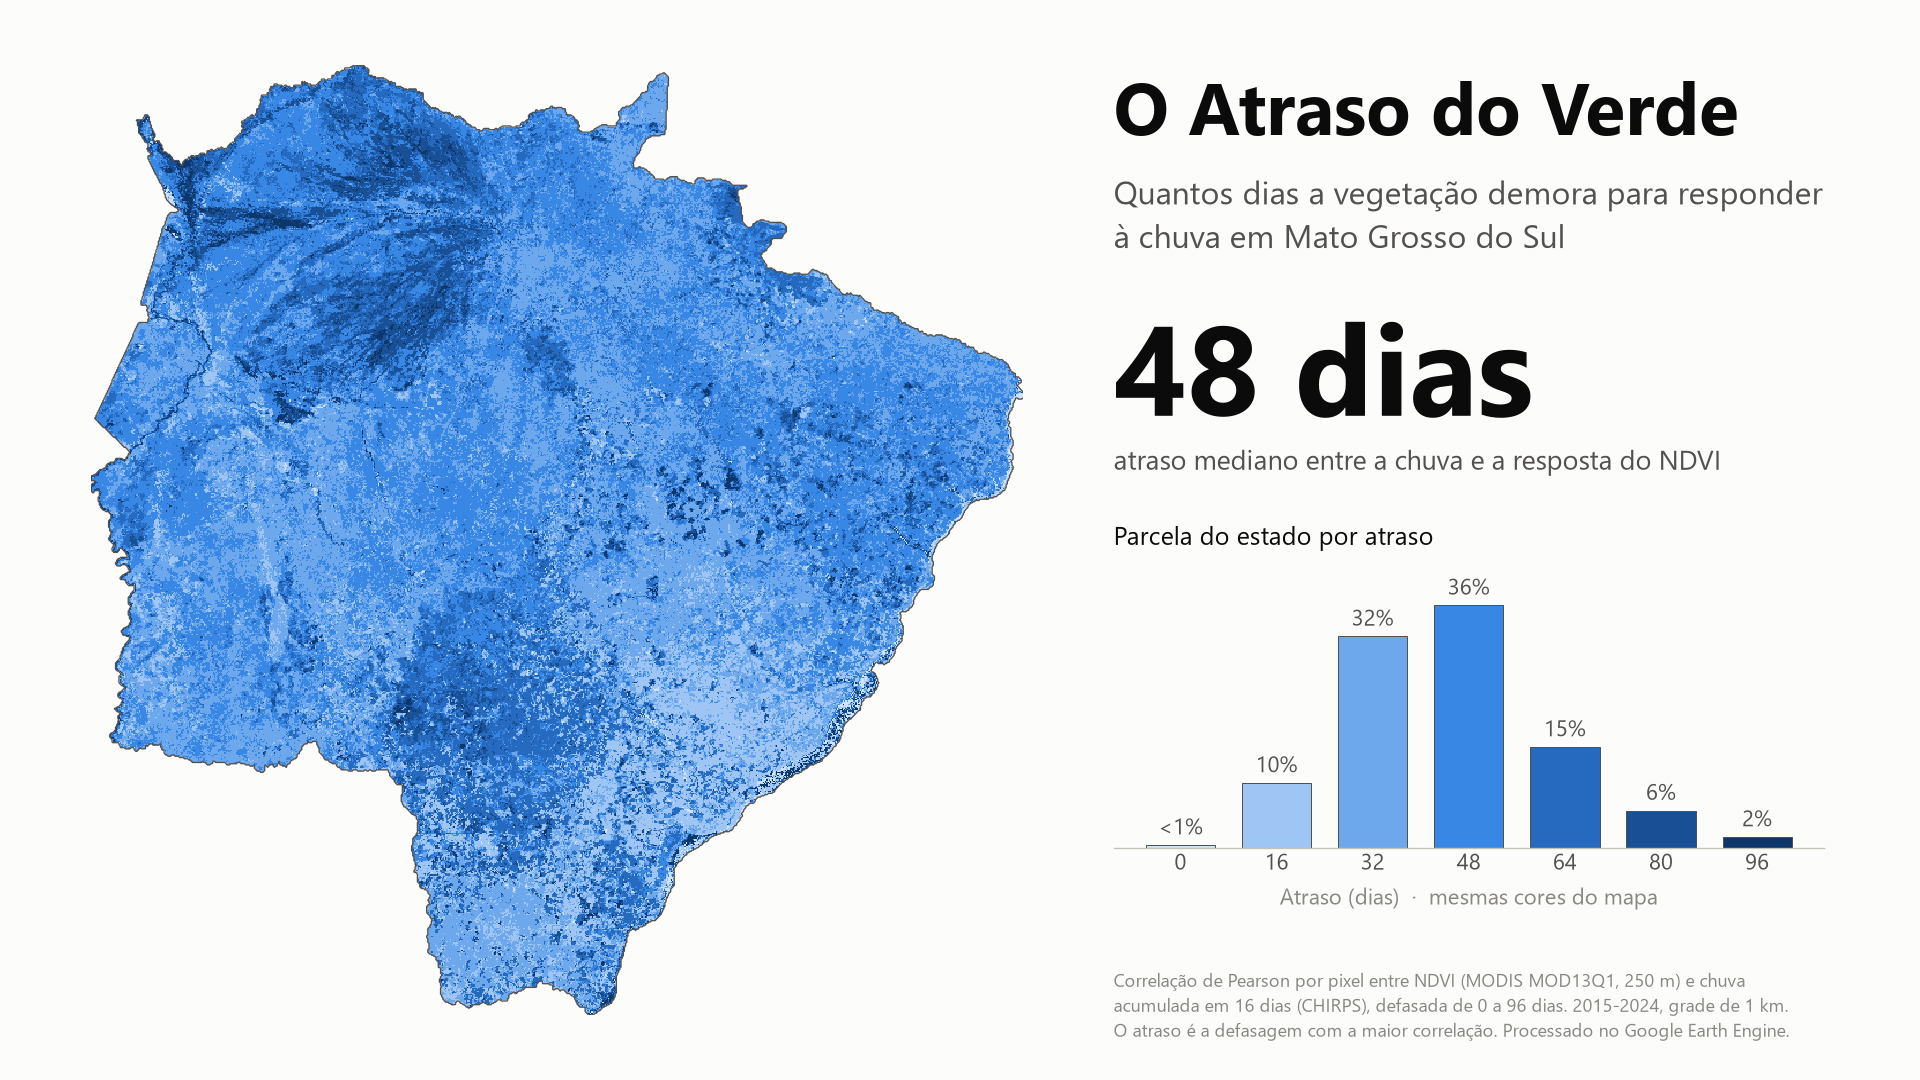
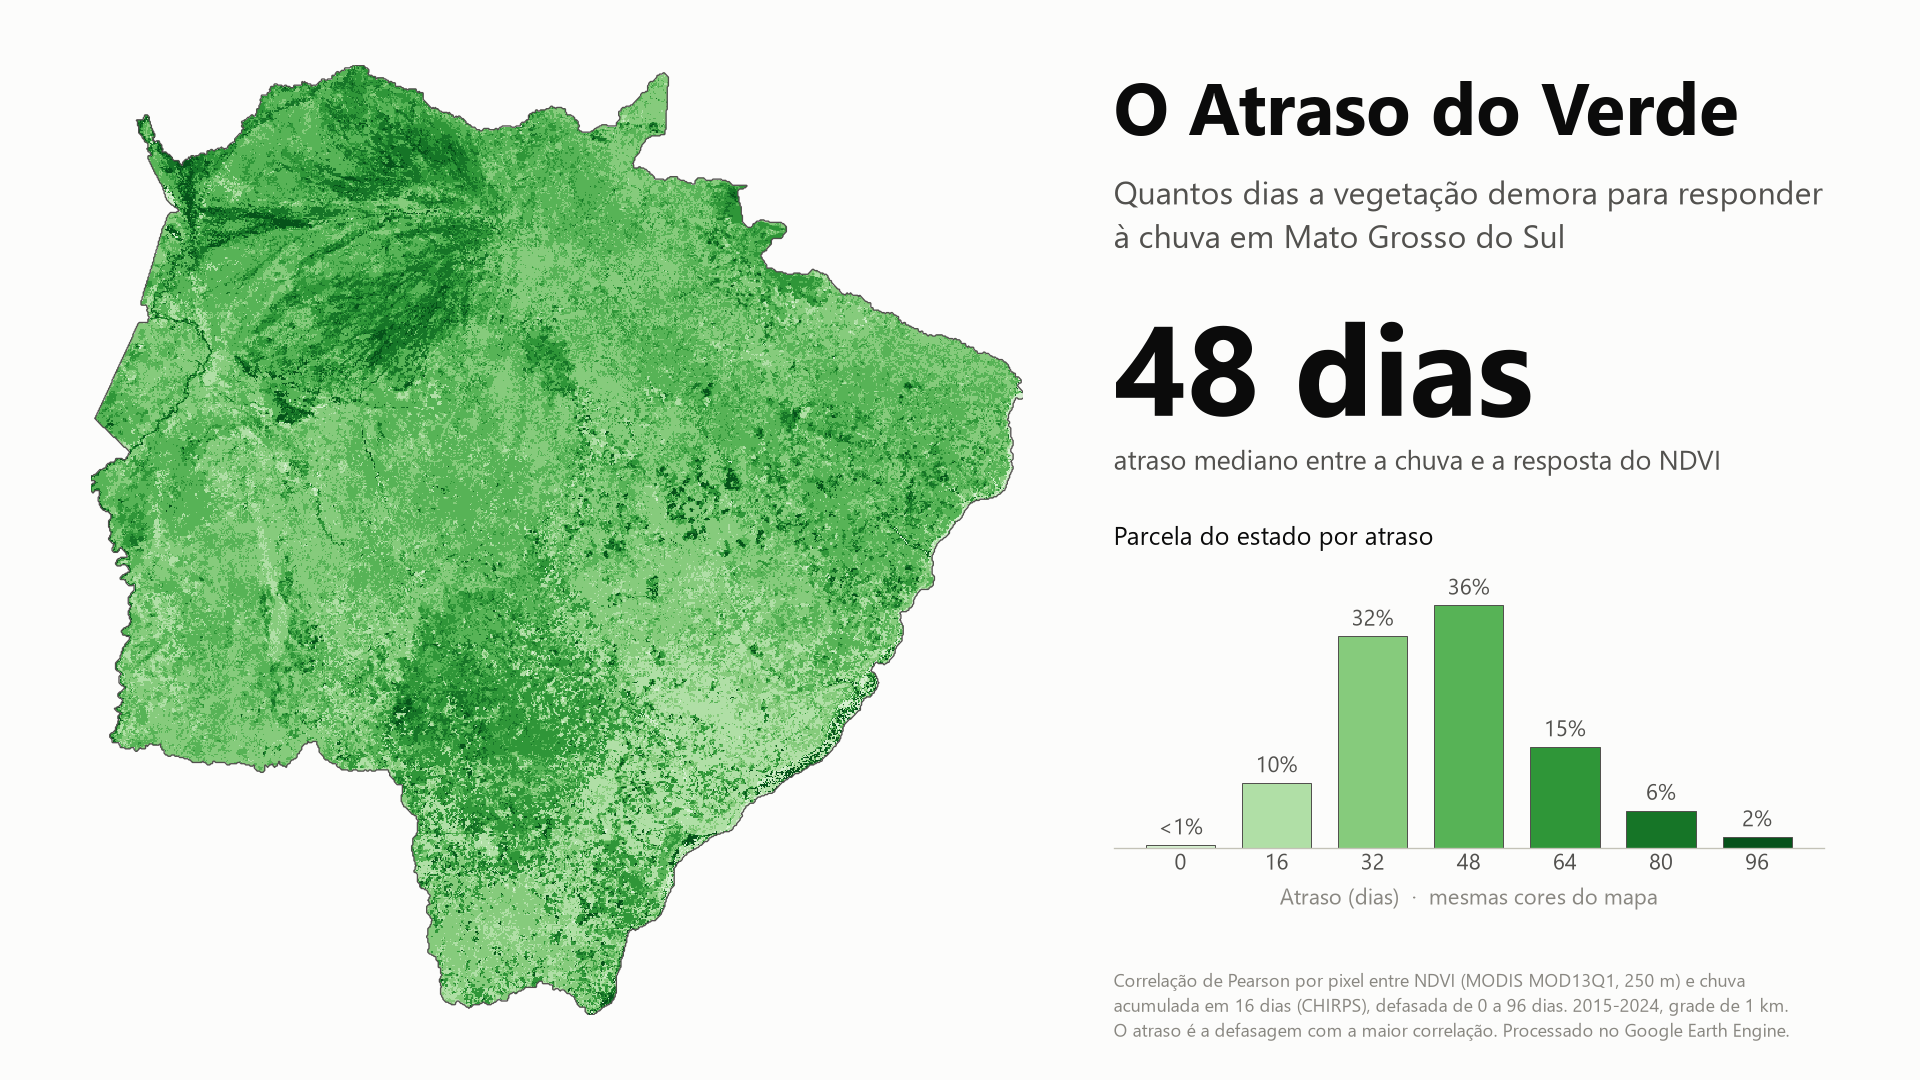
Mapa em verde e GIF animado do verde chegando apos a chuva

Changed region(s): [[0.0312, 0.0611, 0.5312, 0.9472], [0.625, 0.55, 0.9375, 0.7944]]

diff --git a/python/animacao.py b/python/animacao.py
@@ -1,0 +1,131 @@
+"""Gera figuras/atraso_do_verde_ms.gif: o verde chegando, dia a dia, apos a chuva.
+
+Cada pixel "acende" no dia do seu atraso (a defasagem de maior correlacao
+entre chuva e NDVI). Usa o mesmo GeoTIFF de python/figura.py.
+
+Uso:
+    pip install rasterio matplotlib numpy pillow
+    python python/animacao.py caminho/atraso_do_verde_MS_2015_2024.tif
+"""
+import io
+import sys
+
+import matplotlib
+matplotlib.use('Agg')
+import matplotlib.pyplot as plt
+import numpy as np
+import rasterio
+from matplotlib.colors import to_rgb
+from PIL import Image
+
+from figura import (GRADE, LAGS, MUDO, RAMPA, SECO, SUPERFICIE, TINTA, TINTA2,
+                    ler_raster)
+
+FADE = 6            # quadros de transicao por passo
+T_FADE = 70         # ms por quadro de transicao
+T_PASSO = 900       # ms parado em cada passo
+T_INICIO = 1600
+T_FIM = 5000
+
+
+def quadro(lag, fora, b, alfas, pct, titulo_num, legenda, final=False):
+    """alfas[i] em [0, 1]: quanto a classe i ja passou de seco para verde."""
+    seco = np.array(to_rgb(SECO))
+    img = np.zeros(lag.shape + (4,), dtype='float32')
+    img[..., :3] = seco
+    for v, cor, a in zip(LAGS, RAMPA, alfas):
+        if a > 0:
+            m = lag == v
+            img[m, :3] = (1 - a) * seco + a * np.array(to_rgb(cor))
+    img[..., 3] = (~fora).astype('float32')
+
+    fig = plt.figure(figsize=(12, 6.75), dpi=100, facecolor=SUPERFICIE)
+    ax = fig.add_axes([0.03, 0.06, 0.52, 0.88])
+    lat_m = (b.top + b.bottom) / 2
+    ext = [b.left, b.right, b.bottom, b.top]
+    ax.imshow(img, interpolation='nearest', extent=ext,
+              aspect=1 / np.cos(np.radians(lat_m)))
+    ax.contour(np.flipud(fora.astype(float)), levels=[0.5], colors=[TINTA2],
+               linewidths=0.7, extent=ext)
+    ax.set_axis_off()
+
+    x0 = 0.58
+    fig.text(x0, 0.865, 'O Atraso do Verde', fontsize=33, fontweight='bold',
+             color=TINTA)
+    fig.text(x0, 0.785, 'Quantos dias a vegetação demora para responder\n'
+             'à chuva em Mato Grosso do Sul', fontsize=14, color=TINTA2,
+             va='center', linespacing=1.35)
+    fig.text(x0, 0.60, titulo_num, fontsize=58, fontweight='bold', color=TINTA)
+    fig.text(x0, 0.548, legenda, fontsize=13, color=TINTA2)
+
+    axh = fig.add_axes([x0, 0.20, 0.37, 0.27], facecolor=SUPERFICIE)
+    xs = np.arange(len(LAGS))
+    axh.bar(xs, pct, width=0.72, color=GRADE)                 # trilho
+    axh.bar(xs, pct * np.array(alfas), width=0.72, color=RAMPA,
+            edgecolor=TINTA2, linewidth=0.5)
+    for x, p, a in zip(xs, pct, alfas):
+        if a >= 1:
+            rot = f'{p:.0f}%' if p >= 1 else '<1%'
+            axh.text(x, p + pct.max() * 0.03, rot, ha='center', va='bottom',
+                     fontsize=10, color=TINTA2)
+    axh.set_xticks(xs)
+    axh.set_xticklabels([str(v) for v in LAGS], fontsize=10, color=TINTA2)
+    axh.set_xlabel('Dias depois da chuva', fontsize=10, color=MUDO, labelpad=6)
+    axh.set_yticks([])
+    axh.set_ylim(0, pct.max() * 1.2)
+    for lado in ('top', 'right', 'left'):
+        axh.spines[lado].set_visible(False)
+    axh.spines['bottom'].set_color('#c3c2b7')
+    axh.tick_params(axis='x', length=0)
+    axh.set_title('Parcela do estado que responde em cada janela',
+                  fontsize=11.5, color=TINTA, loc='left', pad=8)
+
+    fig.text(x0, 0.045,
+             'NDVI (MODIS MOD13Q1) x chuva de 16 dias (CHIRPS), 2015-2024, grade de 1 km.\n'
+             'Atraso = defasagem de maior correlação. Processado no Google Earth Engine.',
+             fontsize=8.5, color=MUDO, linespacing=1.45)
+
+    buf = io.BytesIO()
+    fig.savefig(buf, format='png', facecolor=SUPERFICIE)
+    plt.close(fig)
+    buf.seek(0)
+    return Image.open(buf).convert('RGB')
+
+
+def main(tif, saida='figuras/atraso_do_verde_ms.gif'):
+    lag, corr, fora, b = ler_raster(tif)
+    validos = lag[~fora]
+    pct = np.array([100.0 * (validos == v).sum() / validos.size for v in LAGS])
+    acum = np.cumsum(pct)
+    mediana = float(np.median(validos))
+
+    quadros, tempos = [], []
+    n = len(LAGS)
+    quadros.append(quadro(lag, fora, b, [0] * n, pct, 'A chuva cai',
+                          'e o verde ainda não apareceu'))
+    tempos.append(T_INICIO)
+    for i, dia in enumerate(LAGS):
+        txt = f'{acum[i]:.0f}%' if acum[i] >= 1 else '<1%'
+        leg = f'{txt} do estado já respondeu à chuva'
+        for f in range(1, FADE + 1):
+            alfas = [1] * i + [f / FADE] + [0] * (n - i - 1)
+            quadros.append(quadro(lag, fora, b, alfas, pct, f'Dia {dia}', leg))
+            tempos.append(T_PASSO if f == FADE else T_FADE)
+    quadros.append(quadro(lag, fora, b, [1] * n, pct, f'{mediana:.0f} dias',
+                          'atraso mediano entre a chuva e a resposta do NDVI'))
+    tempos.append(T_FIM)
+
+    # Paleta unica para todos os quadros (evita cintilacao entre quadros)
+    amostra = Image.new('RGB', (quadros[0].width * 2, quadros[0].height))
+    amostra.paste(quadros[0], (0, 0))                # tem a cor de 'seco'
+    amostra.paste(quadros[-1], (quadros[0].width, 0))  # tem todos os verdes
+    base = amostra.quantize(colors=128, method=Image.Quantize.MEDIANCUT,
+                                dither=Image.Dither.NONE)
+    pal = [q.quantize(palette=base, dither=Image.Dither.NONE) for q in quadros]
+    pal[0].save(saida, save_all=True, append_images=pal[1:], duration=tempos,
+                loop=0, optimize=False, disposal=1)
+    print('GIF salvo em', saida, '-', len(pal), 'quadros')
+
+
+if __name__ == '__main__':
+    main(*sys.argv[1:])

diff --git a/python/figura.py b/python/figura.py
@@ -16,24 +16,29 @@ from matplotlib.colors import BoundaryNorm, ListedColormap
 
 LAGS = [0, 16, 32, 48, 64, 80, 96]
 # Rampa sequencial de um unico matiz (claro = resposta rapida, escuro = lenta)
-RAMPA = ['#cde2fb', '#9ec5f4', '#6da7ec', '#3987e5', '#256abf', '#184f95', '#0d366b']
+RAMPA = ['#d5efcf', '#b0dfa6', '#86cb7c', '#57b356', '#2f9638', '#167527', '#06521a']
+SECO = '#e8dcc0'    # cor de 'ainda sem resposta', usada na animacao
 SUPERFICIE = '#fcfcfb'
 TINTA = '#0b0b0b'
 TINTA2 = '#52514e'
 MUDO = '#898781'
 GRADE = '#e1e0d9'
-BARRA = '#2a78d6'
 
 plt.rcParams['font.family'] = ['Segoe UI', 'DejaVu Sans', 'sans-serif']
 
 
-def main(tif, saida='figuras/atraso_do_verde_ms.png'):
+def ler_raster(tif):
     with rasterio.open(tif) as src:
         lag = src.read(1).astype('float32')
         corr = src.read(2).astype('float32')
         b = src.bounds
     # Fora do limite de MS o GeoTIFF vem com 0 nas duas bandas (ou NaN)
     fora = ~np.isfinite(corr) | ~np.isfinite(lag) | ((corr == 0) & (lag == 0))
+    return lag, corr, fora, b
+
+
+def main(tif, saida='figuras/atraso_do_verde_ms.png'):
+    lag, corr, fora, b = ler_raster(tif)
     lag_m = np.ma.masked_where(fora, lag)
     validos = lag[~fora]
 

diff --git a/README.md b/README.md
@@ -2,7 +2,7 @@
 
 **Quantos dias a vegetação demora para responder à chuva em Mato Grosso do Sul?**
 
-![Mapa do atraso do verde em Mato Grosso do Sul](figuras/atraso_do_verde_ms.png)
+![Animação: o verde chegando a Mato Grosso do Sul nos dias seguintes à chuva](figuras/atraso_do_verde_ms.gif)
 
 A chuva cai hoje, mas o pasto, a lavoura e o Cerrado não ficam verdes hoje. Este
 projeto mede esse intervalo, pixel a pixel, para o estado inteiro, usando dez anos
@@ -11,6 +11,11 @@ de imagens de satélite processadas no Google Earth Engine.
 ## Resultado
 
 Para 2015-2024, em Mato Grosso do Sul:
+
+![Mapa do atraso do verde em Mato Grosso do Sul](figuras/atraso_do_verde_ms.png)
+
+No mapa, verde claro é resposta rápida e verde escuro é resposta lenta. Na
+animação do topo, cada pixel acende no dia do seu atraso.
 
 - **Atraso mediano: 48 dias.** Média: 44,6 dias.
 - Em 68% do estado, o atraso fica entre 32 e 48 dias.
@@ -75,11 +80,12 @@ export EE_PROJECT=seu-projeto-cloud      # Windows: set EE_PROJECT=seu-projeto-c
 python python/atraso_do_verde_ms.py
 ```
 
-### Para refazer a figura
+### Para refazer a figura e a animação
 
 ```bash
-pip install rasterio matplotlib numpy
+pip install rasterio matplotlib numpy pillow
 python python/figura.py caminho/atraso_do_verde_MS_2015_2024.tif
+python python/animacao.py caminho/atraso_do_verde_MS_2015_2024.tif
 ```
 
 ## Estrutura
@@ -88,9 +94,10 @@ python python/figura.py caminho/atraso_do_verde_MS_2015_2024.tif
 gee/atraso_do_verde_ms.js       script para o Code Editor
 python/atraso_do_verde_ms.py    mesma análise pela API Python
 python/figura.py                gera o mapa a partir do GeoTIFF
+python/animacao.py              gera o GIF animado
 resultados/resumo_1km.json      números do raster de 1 km (os da figura)
 resultados/estatisticas.json    conferência no Earth Engine em grade de 5 km
-figuras/                        figura do README
+figuras/                        figura e animação do README
 ```
 
 ## Dados
